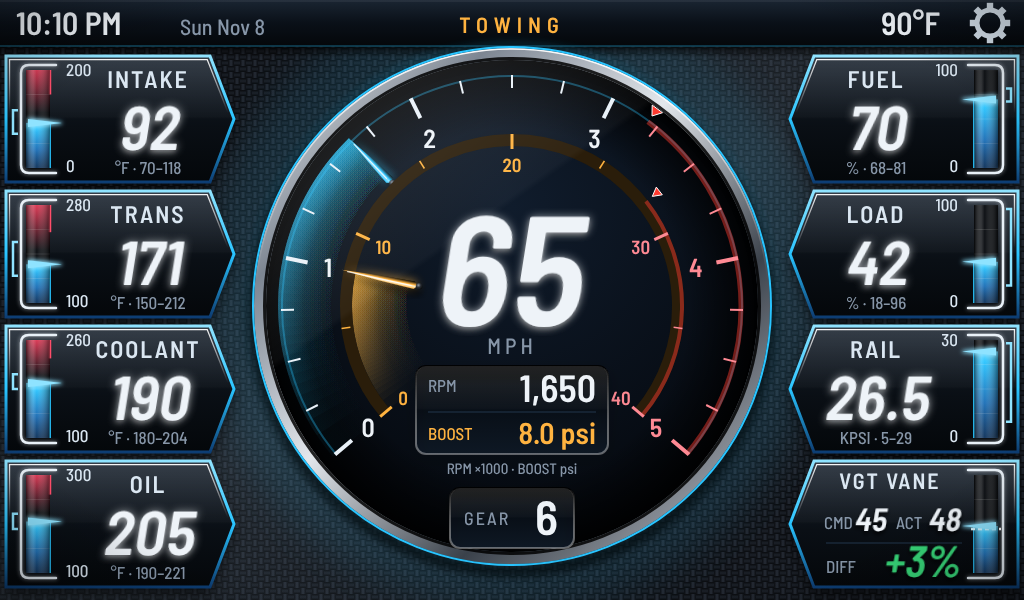
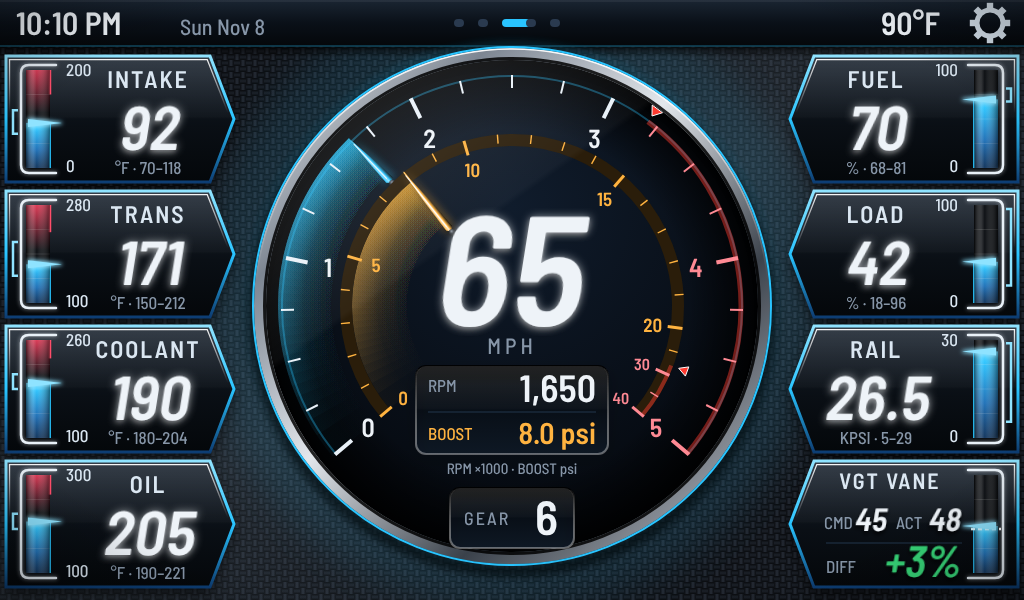
Mockups v2: P3 page dots instead of a page name; boost scale 0-20 psi on 7/8 of the sweep
Claude-Session: https://claude.ai/code/session_01NB1fkpFcGY28RY4JZ8NWPC

diff --git a/docs/mockups/v2.html b/docs/mockups/v2.html
@@ -308,7 +308,7 @@ pages.premium_towing=()=>{const CX=512,CY=306,RD=246;
   const sk=(x,y,sz,t,op={})=>`<g transform="translate(${x},${y}) skewX(-9)" filter="url(#tshadow)">`+T(0,0,sz,t,{f:'C6',...op})+`</g>`;
   // top bar: time, date, TOWING, outside temp, settings
   o+=`<defs><linearGradient id="tbar" x1="0" y1="0" x2="0" y2="1"><stop offset="0" stop-color="#1a2532"/><stop offset=".5" stop-color="#0a1018"/><stop offset="1" stop-color="#04070a"/></linearGradient><linearGradient id="tsh" x1="0" y1="0" x2="0" y2="1"><stop offset="0" stop-color="#000" stop-opacity=".7"/><stop offset="1" stop-color="#000" stop-opacity="0"/></linearGradient></defs><rect x="0" y="46" width="1024" height="12" fill="url(#tsh)"/><rect x="0" y="0" width="1024" height="46" fill="url(#tbar)"/><line x1="0" y1="1" x2="1024" y2="1" stroke="#fff" stroke-opacity=".12"/><line x1="0" y1="46" x2="1024" y2="46" stroke="${CY2}" stroke-opacity=".5"/>`;
-  o+=T(16,35,32,'10:10 PM',{a:'start',f:'C6'})+T(180,35,22,'Sun Nov 8',{a:'start',c:C.dim,f:'C5'})+T(CX,33,22,'TOWING',{c:C.amber,ls:6,f:'C6'});
+  o+=T(16,35,32,'10:10 PM',{a:'start',f:'C6'})+T(180,35,22,'Sun Nov 8',{a:'start',c:C.dim,f:'C5'});for(let k=0;k<5;k++)o+=`<rect x="${CX-58+k*24}" y="19" width="${k==2?28:10}" height="8" rx="4" fill="${k==2?CY2:'#2a3a4f'}"/>`;
   o+=T(940,35,32,'90°F',{a:'end',f:'C6'});
   {let g='';const x=990,y=23;for(let i=0;i<8;i++){const an=i*45,[a1,b1]=P(x,y,17,an-11),[a2,b2]=P(x,y,17,an+11);g+=`<line x1="${n1(a1)}" y1="${n1(b1)}" x2="${n1(a2)}" y2="${n1(b2)}" stroke="#dbe7f2" stroke-width="7"/>`}
    o+=g+`<circle cx="${x}" cy="${y}" r="13" fill="none" stroke="#dbe7f2" stroke-width="5"/>`}
@@ -327,7 +327,8 @@ pages.premium_towing=()=>{const CX=512,CY=306,RD=246;
   o+=`<circle cx="${CX}" cy="${CY}" r="${RD+14}" fill="none" stroke="${CY2}" stroke-width="3" opacity=".5" filter="url(#glowU)"/><circle cx="${CX}" cy="${CY}" r="${RD}" fill="url(#face)"/><circle cx="${CX}" cy="${CY}" r="${RD}" fill="url(#faceIn)"/>`+bezel(CX,CY,RD+6,12)+`<circle cx="${CX}" cy="${CY}" r="${RD+13}" fill="none" stroke="${CY2}" stroke-width="2"/>`;
   const A0=140,SW=260;
   // light trails behind both needles (drawn on the face, under the scales)
-  o+=trail(176,RD-12,A0,A0+SW*rpm/5000,rHot?C.red:ACC[0],rHot?(OFF?.12:.95):.75,'trO')+trail(100,160,A0,A0+SW*bst/40,bHot?C.red:SEC,bHot?(OFF?.12:.95):.7,'trI');
+  const RI=166,ab=v=>A0+SW*(v<=20?.875*v/20:.875+.125*(Math.min(v,40)-20)/20);
+  o+=trail(176,RD-12,A0,A0+SW*rpm/5000,rHot?C.red:ACC[0],rHot?(OFF?.12:.95):.75,'trO')+trail(100,160,A0,ab(bst),bHot?C.red:SEC,bHot?(OFF?.12:.95):.7,'trI');
   // outer scale: RPM with a needle
   const RO=220,ar=v=>A0+SW*v/5;
   o+=`<path d="${arc(CX,CY,RO+10,A0,A0+SW)}" stroke="${ACC[0]}" stroke-opacity=".35" stroke-width="2" fill="none"/>`;
@@ -346,11 +347,11 @@ pages.premium_towing=()=>{const CX=512,CY=306,RD=246;
   o+=limitMark(RO+12,ar(RMAX/1000),true);
   o+=wedge(176,RO+12,ar(rpm/1000),1.35,rHot?hotC(1):ACC[0],rHot?(OFF?'#5a1a20':'#ffd0d4'):ACC[1]);
   // inner scale: BOOST with its own needle
-  const RI=166,ab=v=>A0+SW*v/40;
   o+=`<path d="${arc(CX,CY,RI,A0,A0+SW)}" stroke="#2a1d0a" stroke-width="12" fill="none"/>`;
   o+=`<path d="${arc(CX,CY,RI+4,ab(BMAX),ab(40))}" stroke="${C.red}" stroke-width="4" fill="none" opacity=".45"/>`;
-  for(let v=0;v<=40;v+=5){const maj=v%10==0,[x1,y1]=P(CX,CY,RI+6,ab(v)),[x2,y2]=P(CX,CY,RI-(maj?9:3),ab(v));o+=`<line x1="${n1(x1)}" y1="${n1(y1)}" x2="${n1(x2)}" y2="${n1(y2)}" stroke="${v>=BMAX?'#ff8a94':SEC}" stroke-width="${maj?3:1.6}"/>`}
-  for(let v=0;v<=40;v+=10){const[x,y]=P(CX,CY,RI-24,ab(v));o+=T(x,y,19,v,{db:'central',c:v>=BMAX?'#ff8a94':SEC,f:'C6'})}
+  {const tk=[];for(let v=0;v<=20;v+=1)tk.push([v,v%5==0]);[25,30,35,40].forEach(v=>tk.push([v,v==30||v==40]));
+   tk.forEach(([v,maj])=>{const[x1,y1]=P(CX,CY,RI+6,ab(v)),[x2,y2]=P(CX,CY,RI-(maj?9:3),ab(v));o+=`<line x1="${n1(x1)}" y1="${n1(y1)}" x2="${n1(x2)}" y2="${n1(y2)}" stroke="${v>=BMAX?'#ff8a94':SEC}" stroke-width="${maj?3:1.4}"/>`});
+   [0,5,10,15,20,30,40].forEach(v=>{const[x,y]=P(CX,CY,RI-24,ab(v));o+=T(x,y,v>20?16:19,v,{db:'central',c:v>=BMAX?'#ff8a94':SEC,f:'C6'})});}
   o+=limitMark(RI+8,ab(BMAX),true);
   o+=wedge(100,RI+8,ab(bst),2.1,bHot?hotC(1):SEC,bHot?(OFF?'#5a1a20':'#ffd0d4'):'#fff3d6');
   // speed, big; RPM digits with boost under them

diff --git a/docs/mockups/v2/KEY.md b/docs/mockups/v2/KEY.md
@@ -7,7 +7,7 @@ renders are in `numbered/`.
 |---|---|
 | **P1** Premium Daily | 1 tach that wraps into the top bar · 2 gear dial · 3 center card (boost/trans/MPG) · 4 speedo · 5 odometer · 6 coolant · 7 fuel % and range · 8 clock/date bar |
 | **P2** Premium Sport | 1 big center tach · 2 speed · 3 gear · 4 red-zone glow · 5 coolant bar · 6 trans bar · 7 boost bar · 8 oil bar |
-| **P3** Premium Towing (rev 3) | 1 speed (big, center) · 2 slim rounded 3D RPM pointer across the light trail (shaded like a polished needle, cap at the base, point at the rim) with a light trail (lit wedge on the face from 0 to the pointer) · 3 slim boost pointer across its trail on the inner scale with its own light trail. Each has a user alarm limit (small red marker outside its scale, pointing in; a thin soft red line from there up); at or above it the whole trail, the pointer and the digits turn red (`premium_towing_alarm.png`, limits popup `premium_towing_limits.png`) · 4 RPM digits with boost under them · 5 gear (bottom of the circle) · 6 left panels (intake/trans/coolant/oil) · 7 right panels (fuel/load/rail/VGT) · 8 premium vertical bars: outline frame, red zone fading down, fill fading down from a bright top edge, pointer at now, scale min/max, this drive's min–max bracket (also under the value) · 9 VGT vane: CMD, ACT and DIFF (amber at 5%, red at 10%) · 10 top bar: time, date, page, outside temp, settings |
+| **P3** Premium Towing (rev 3) | 1 speed (big, center) · 2 slim rounded 3D RPM pointer across the light trail (shaded like a polished needle, cap at the base, point at the rim) with a light trail (lit wedge on the face from 0 to the pointer) · 3 slim boost pointer across its trail on the inner scale (0–20 psi uses 7/8 of the sweep, 20–40 the last 1/8) with its own light trail. Each has a user alarm limit (small red marker outside its scale, pointing in; a thin soft red line from there up); at or above it the whole trail, the pointer and the digits turn red (`premium_towing_alarm.png`, limits popup `premium_towing_limits.png`) · 4 RPM digits with boost under them · 5 gear (bottom of the circle) · 6 left panels (intake/trans/coolant/oil) · 7 right panels (fuel/load/rail/VGT) · 8 premium vertical bars: outline frame, red zone fading down, fill fading down from a bright top edge, pointer at now, scale min/max, this drive's min–max bracket (also under the value) · 9 VGT vane: CMD, ACT and DIFF (amber at 5%, red at 10%) · 10 top bar: time, date, page dots, outside temp, settings |
 | **P4** Premium Economy | 1 open-arc tach · 2 speed · 3 gear · 4 fuel bar · 5 fuel % and range · 6 trip/tank boxes · 7 MPG bar with tank-avg marker · 8 MPG now/trip/last 10 · 9 telltales |
 | **P5** Premium Trend | 1 channel list · 2 live values · 3 chart · 4 tap cursor · 5 min/avg/max · 6 time window buttons |
 | **C1** Classic Daily | 1 digital speed/gear window · 2 sweep speedo · 3 odometer · 4 round tach · 5 temp/trans window · 6 boost/fuel window · 7 clock |
